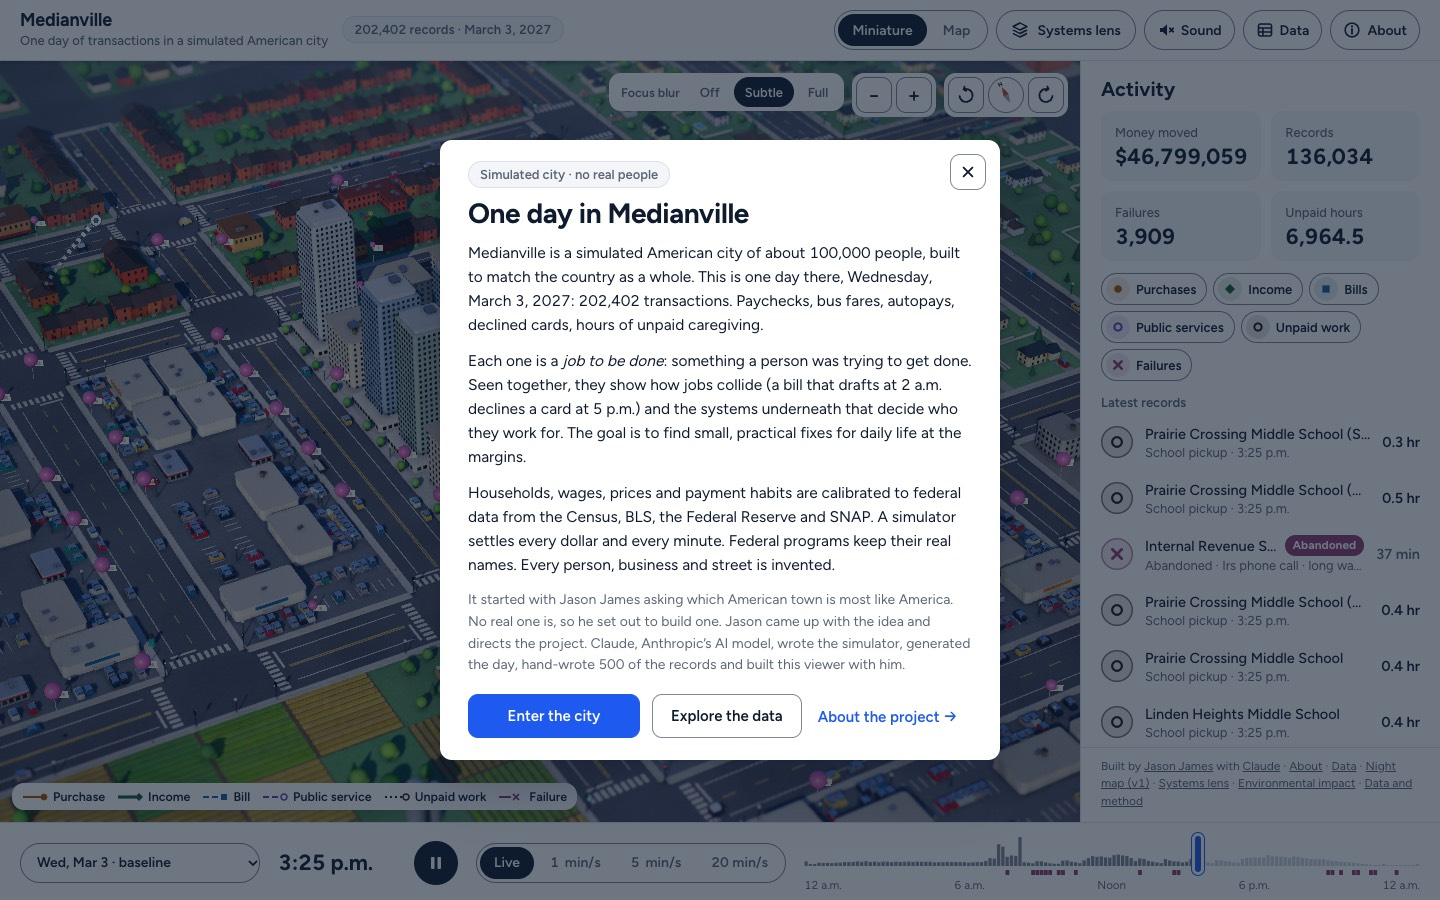
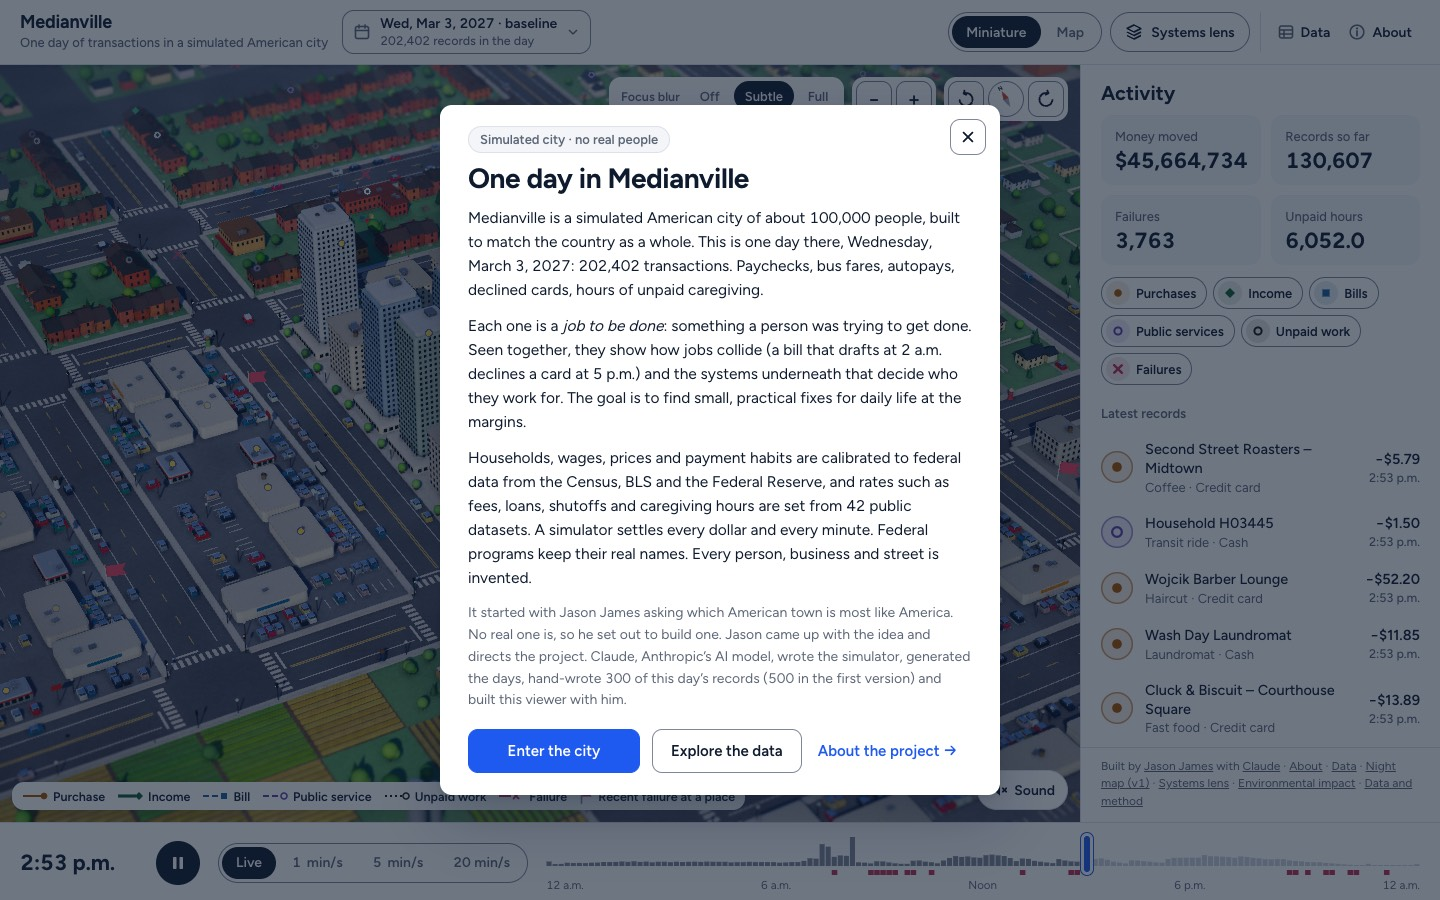
Medianville: retake the README screenshots
The Miniature, Map, both intros, the systems lens and the data explorer
are retaken at their original sizes to show the failure flags, crimson
failures, the day control, Sound on the city and the lens's new layer
colours. The viewer shots now show a set moment (12:30 p.m., playing at
five minutes a second), taken in headless Chrome over the DevTools
protocol, and the captions and alt text match them; the Map is zoomed
out to most of the sheet, as its caption already said. The explorer
caption gives the baseline day's count (1,584).

diff --git a/mapping-synthetic-transactions/README.md b/mapping-synthetic-transactions/README.md
@@ -56,11 +56,11 @@ Both animated pages link to each other and to the systems lens in their footers.
 
 ### Miniature and Map (latest)
 
-![The miniature town at 3:24 p.m. in afternoon sun, with street paint, parked cars and the land beyond the board, record paths arcing between homes and buildings, and failure pins on the places where things went wrong](screenshots/v3-miniature.jpg)
+![The miniature town at 12:30 p.m. in midday sun, with street paint, parked cars and the land beyond the board, record paths arcing between homes and buildings, small crimson flags at the places where something just failed, the day control in the header and Sound in the city's corner](screenshots/v3-miniature.jpg)
 
-The Miniature view at 12:19 p.m., playing at five minutes a second. Purple dashed arcs are public services, here children headed to school; pink pins count failures at a place.
+The Miniature view at 12:30 p.m., playing at five minutes a second. Amber arcs are purchases and violet dashed arcs public services, here children headed to school; each small crimson flag marks a place where something failed in the last few minutes.
 
-![The Map view around Courthouse Square, drawn as a printed map sheet in the viewer's type and navy ink, with numbered failure triangles](screenshots/v3-map.jpg)
+![The Map view of most of the sheet, drawn as a printed map in the viewer's type and navy ink, with record paths crossing it and numbered crimson failure triangles](screenshots/v3-map.jpg)
 
 The same moment in the Map view, zoomed out to show most of the sheet.
 
@@ -74,13 +74,13 @@ On a first visit, an intro opens over the city while the day loads, and **About*
 
 The systems lens opens over the city in the latest viewer from a record's **What shaped this**, from a household's day, or from the **Systems lens** button in the header (**L**). It maps one composite block in each district, defined in `systems-lens/blocks.json`, and the run tags the records of those blocks' households, so the lens shows the record you opened. Every other record opens its district's block on the **district tier**: the circumstances true across the whole district, with the bar above the lens saying the record comes from elsewhere in the district. It also runs on its own at [systems-lens/](https://jas0nmjames.github.io/playground/mapping-synthetic-transactions/systems-lens/), where a menu switches blocks and each pin shows a composite example. The [design record](reference/medianville-systems-lens.md) explains the choices, and the three directions tried first are kept at [systems-lens/directions.html](https://jas0nmjames.github.io/playground/mapping-synthetic-transactions/systems-lens/directions.html).
 
-The screenshots were taken from these pages in headless Chromium with software WebGL, at twice the pixel density.
+The screenshots were taken from these pages in headless Chrome, driven over the DevTools protocol so each one shows a set moment (the viewer at 12:30 p.m., playing at five minutes a second), at twice the pixel density; the intro is at 1× and the phone intro at 390 × 844.
 
 ### Data explorer
 
 ![The data explorer: records that didn't work for households in poverty, grouped by job, with filters on the left and totals above](screenshots/explorer.jpg)
 
-[explorer/](https://jas0nmjames.github.io/playground/mapping-synthetic-transactions/explorer/) is the run as tables: every record, household, person and organization, with filters, search and drill-downs. Here, the 1,732 records that didn't work for households in poverty, grouped by job.
+[explorer/](https://jas0nmjames.github.io/playground/mapping-synthetic-transactions/explorer/) is the run as tables: every record, household, person and organization, with filters, search and drill-downs. Here, the 1,584 records that didn't work for households in poverty on the baseline day, grouped by job.
 
 ## Watching the night map
 
